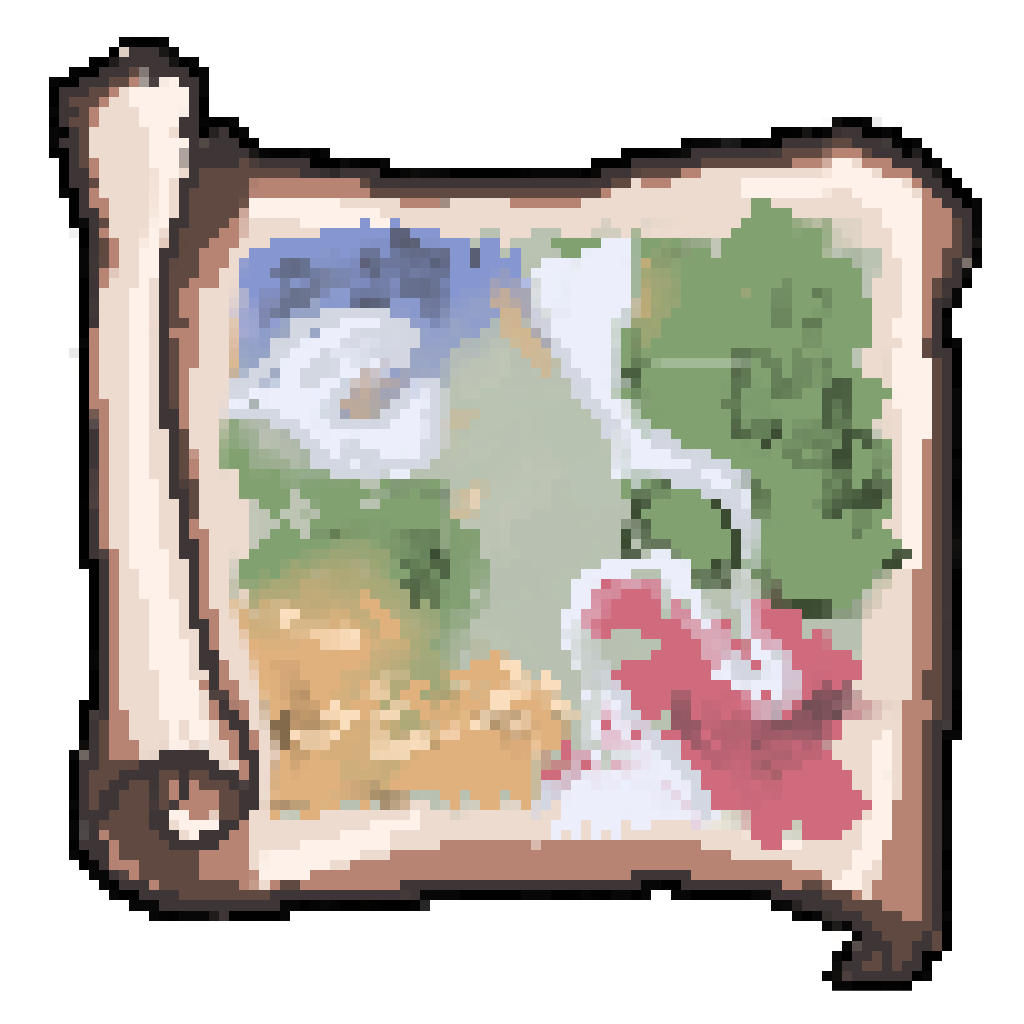
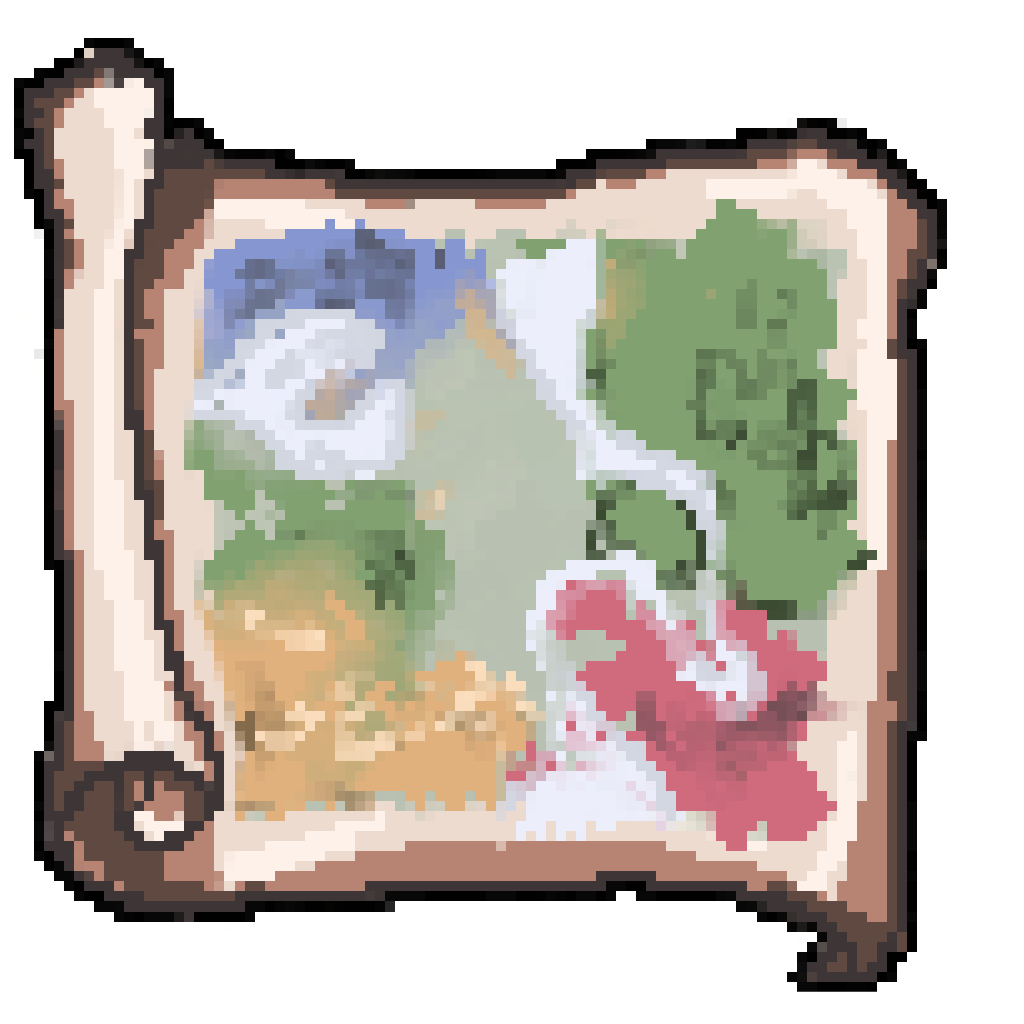
fix minimap alignment

diff --git a/UI/GUI.cpp b/UI/GUI.cpp
@@ -966,17 +966,11 @@ void GUI::createMiniMap() {
 
 	ImGui::SetNextWindowSize(window_size);
 	ImGui::SetNextWindowPos(ImVec2(padding, window_height - padding), ImGuiCond_Always, ImVec2(0.0f, 1.0f));
-	ImGui::Begin("Minimap background", &bptr, TRANS_WINDOW_FLAG);
+	ImGui::Begin("Minimap", &bptr, TRANS_WINDOW_FLAG);
 	ImGui::SetCursorPos(ImVec2(0, 0));
 	ImGui::Image((void*)(intptr_t)minimap_background.my_image_texture, image_size);
-	ImGui::End(); 
-
-	ImGui::SetNextWindowSize(window_size);
-	ImGui::SetNextWindowPos(ImVec2(padding, window_height - padding), ImGuiCond_Always, ImVec2(0.0f, 1.0f));
 	//ImVec2 center = ImVec2(padding + size.x / 2, window_height - padding - size.y / 2); // center of minimap
 	ImVec2 center = ImVec2(image_size.x * 0.5f, image_size.y  * 0.5f); // center of minimap
-
-	ImGui::Begin("MiniMap", &bptr, TRANS_WINDOW_FLAG);
 	//place all player's icon:
 	for (ModelEnum char_model: char_selections) {
 		GUIImage image = icon_images_map[char_model];
